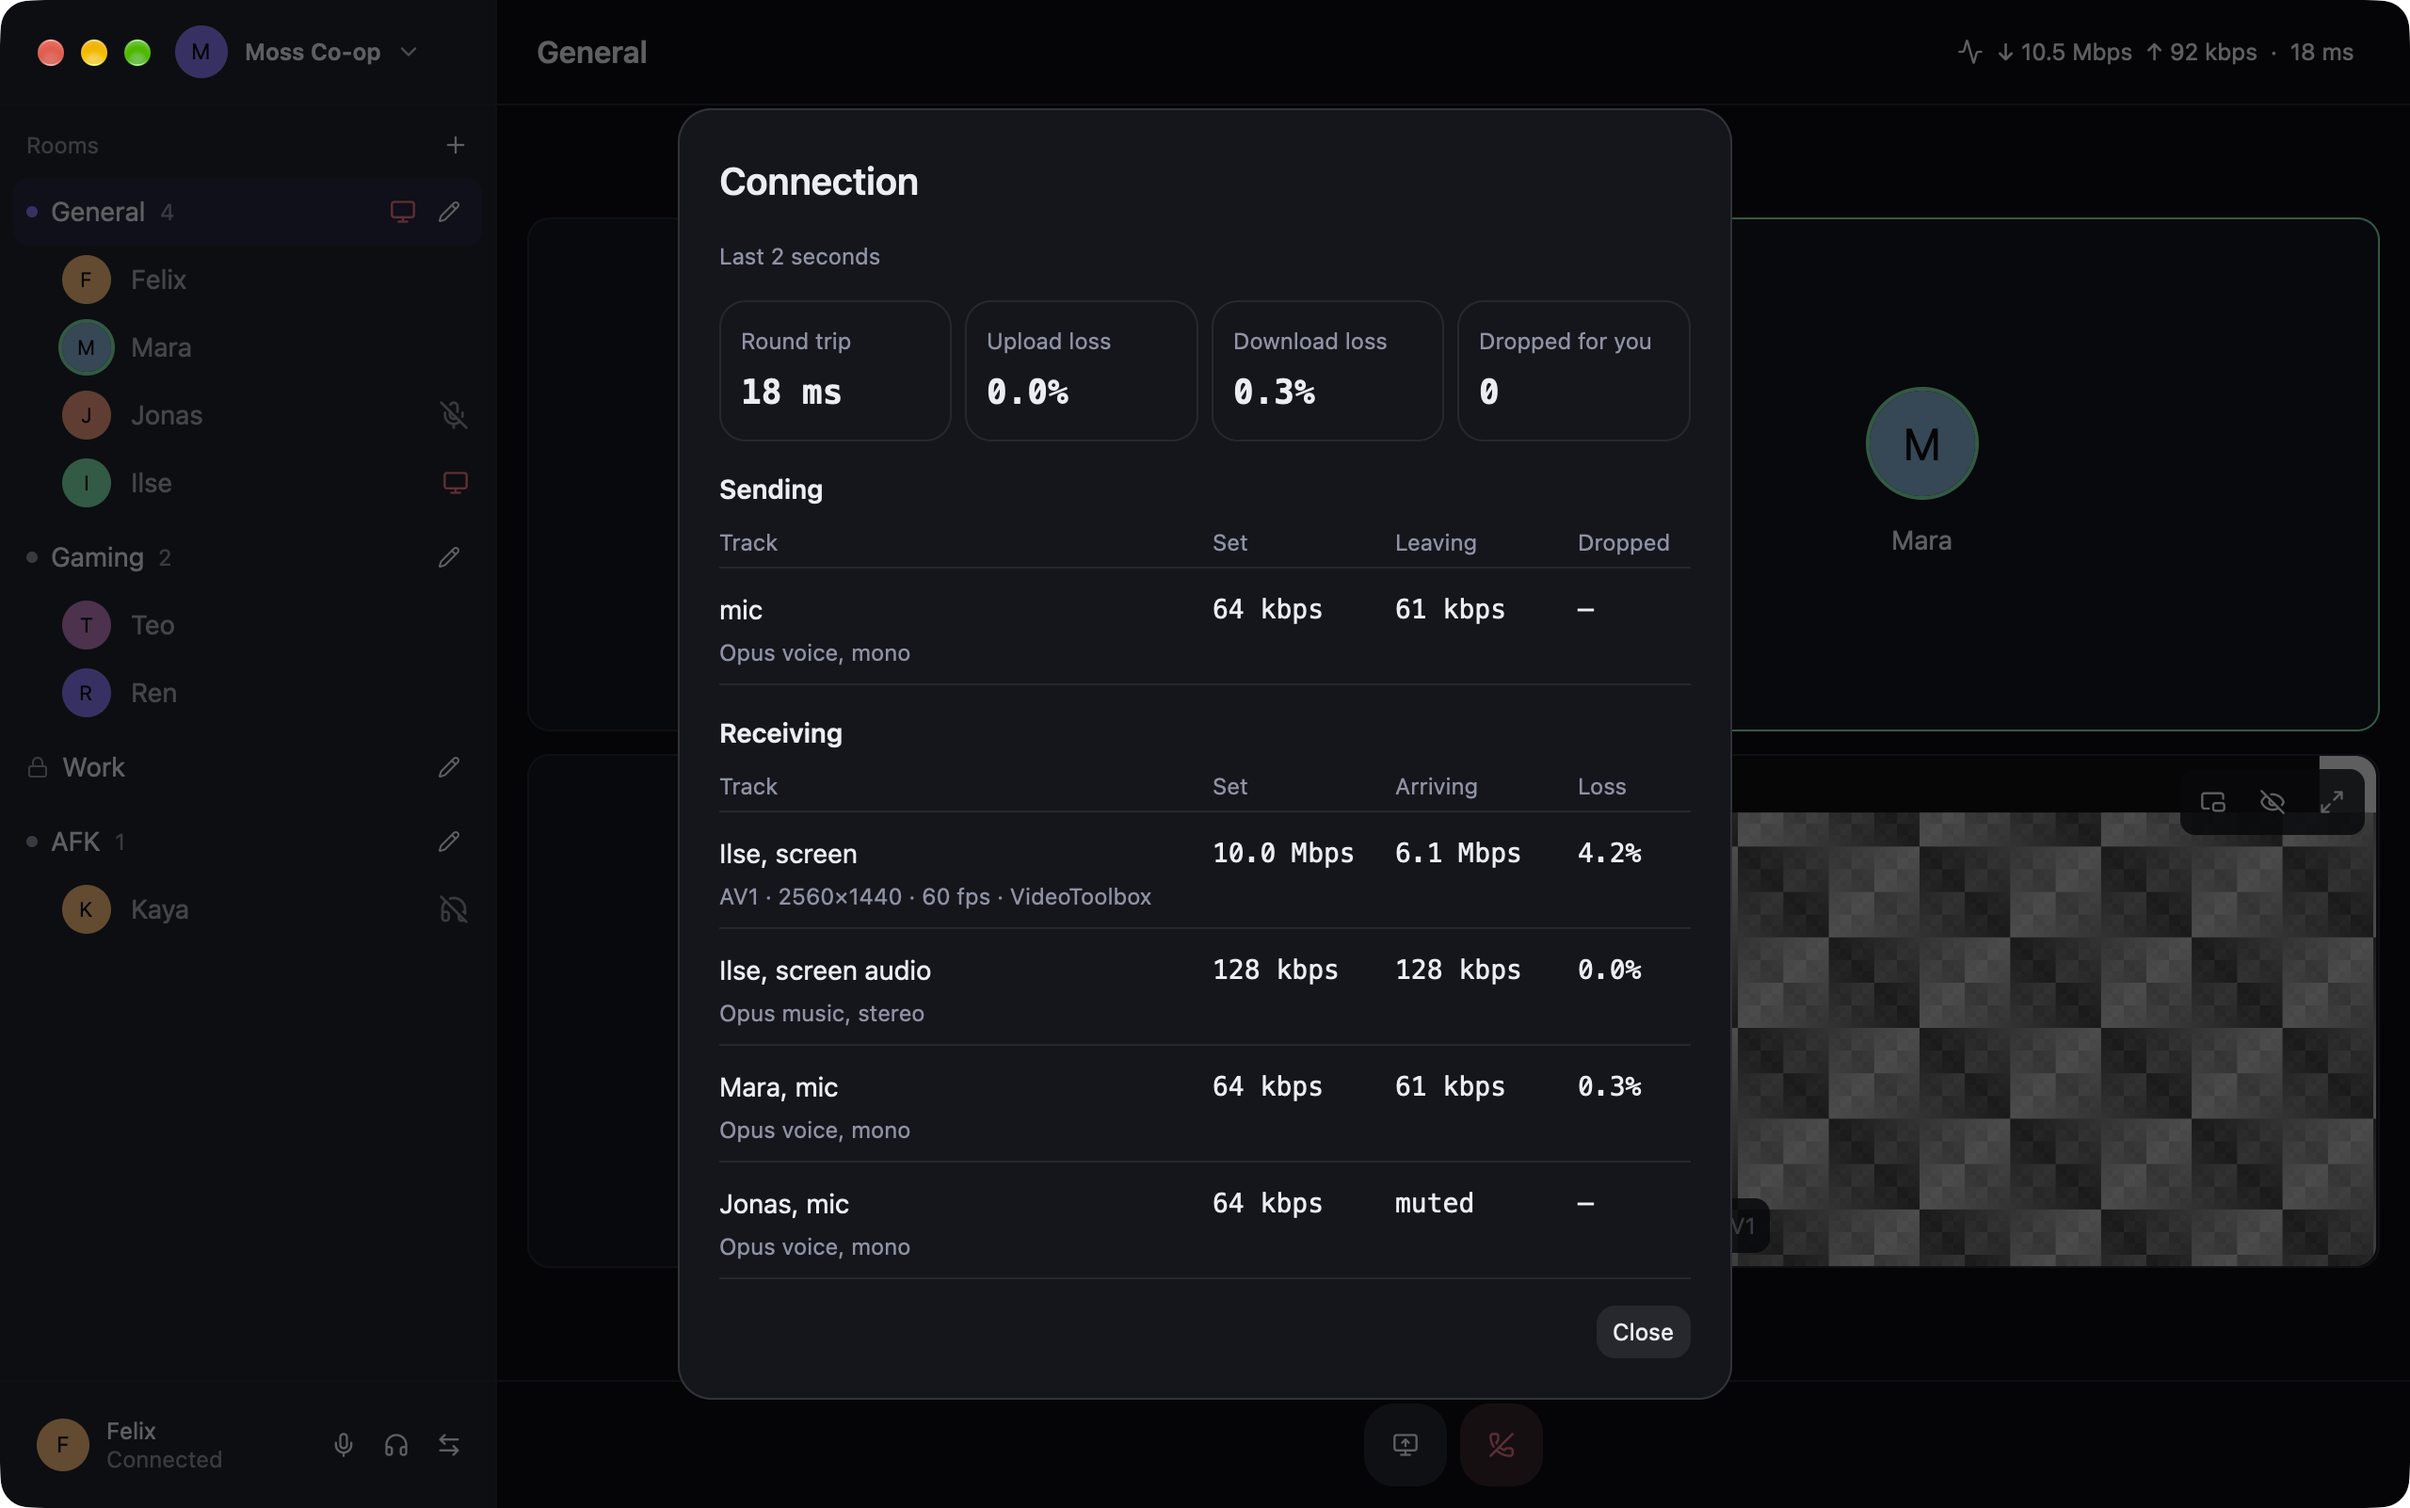
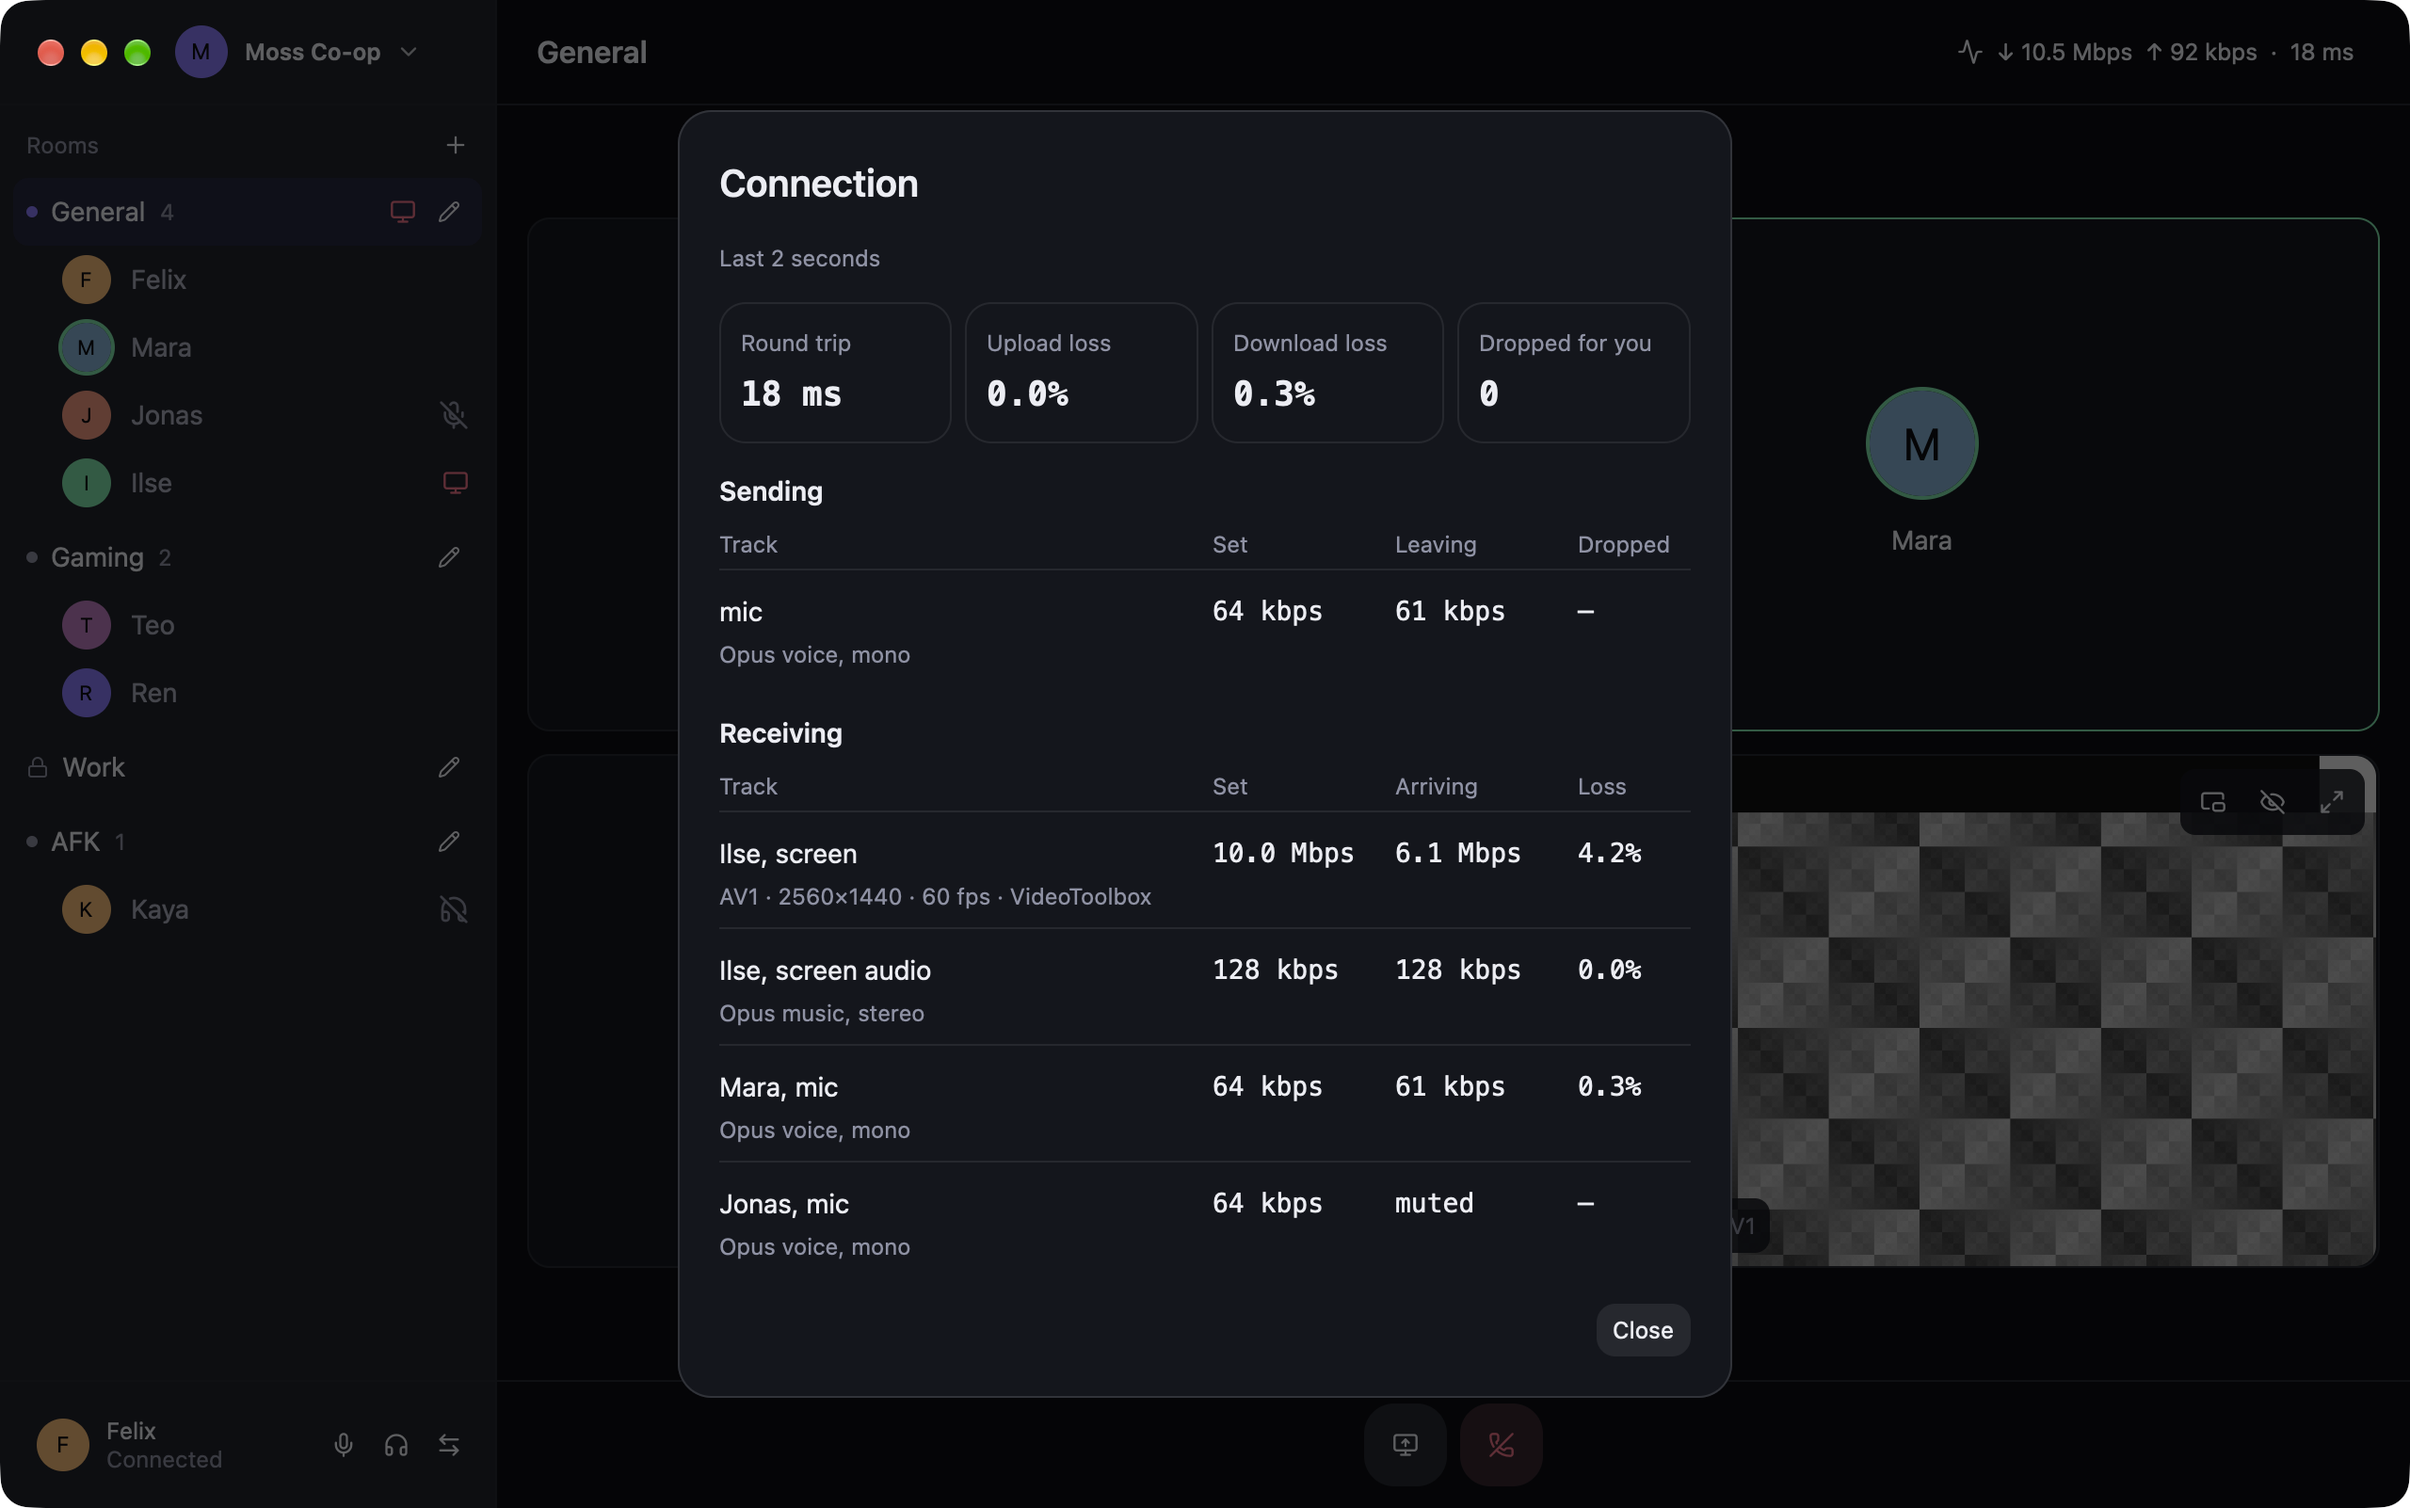
fix(client): no rule after the last row of a connection table

diff --git a/crates/throcc-client/src/views/dialogs.rs b/crates/throcc-client/src/views/dialogs.rs
@@ -401,14 +401,13 @@ fn stat(label: &str, value: String) -> impl IntoElement {
 
 fn connection(app: &ThroccApp, cx: &mut Context<ThroccApp>) -> AnyElement {
     let health = &app.state.health;
-    let table_row = |label: String, detail: String, [set, rate, last]: [String; 3]| {
+    let table_row = |label: String, detail: String, [set, rate, last]: [String; 3], ruled: bool| {
         div()
             .flex()
             .flex_col()
             .gap_0p5()
             .py_2()
-            .border_b_1()
-            .border_color(theme::control())
+            .when(ruled, |row| row.border_b_1().border_color(theme::control()))
             .child(
                 div()
                     .flex()
@@ -441,7 +440,7 @@ fn connection(app: &ThroccApp, cx: &mut Context<ThroccApp>) -> AnyElement {
             .font_weight(FontWeight::SEMIBOLD)
             .child(text)
     };
-    let sending = health.sending.iter().map(|row| {
+    let sending = health.sending.iter().enumerate().map(|(i, row)| {
         table_row(
             row.label.to_owned(),
             row.detail.clone(),
@@ -450,9 +449,10 @@ fn connection(app: &ThroccApp, cx: &mut Context<ThroccApp>) -> AnyElement {
                 rate(row.leaving_kbps),
                 row.dropped.map_or("–".to_owned(), |d| d.to_string()),
             ],
+            i + 1 < health.sending.len(),
         )
     });
-    let receiving = health.receiving.iter().map(|row| {
+    let receiving = health.receiving.iter().enumerate().map(|(i, row)| {
         table_row(
             row.label.clone(),
             row.detail.clone(),
@@ -461,6 +461,7 @@ fn connection(app: &ThroccApp, cx: &mut Context<ThroccApp>) -> AnyElement {
                 row.arriving_kbps.map_or("muted".to_owned(), rate),
                 row.loss.map_or("–".to_owned(), |l| format!("{l:.1}%")),
             ],
+            i + 1 < health.receiving.len(),
         )
     });
     div()
